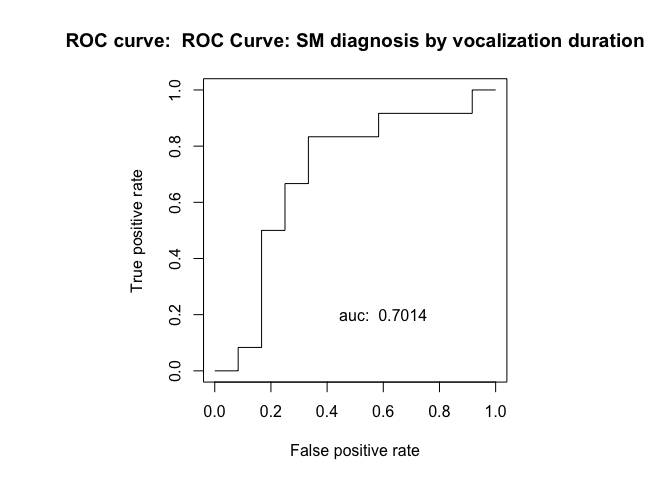
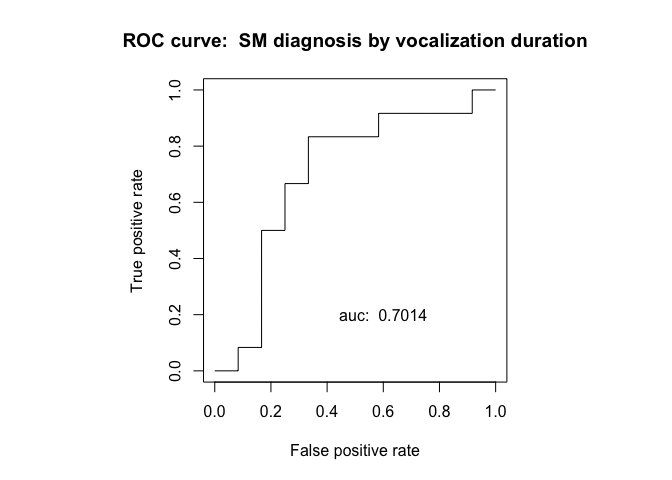
receiver operating characteristic curves

Changed region(s): [[0.0938, 0.0625, 0.9688, 0.125]]

diff --git a/CPP/ROC_curves.md b/CPP/ROC_curves.md
@@ -84,12 +84,12 @@ predicting SM dx by vocalization counts
 
 predicting SM dx by vocalization duration
 
-      SM_DX_ROC_plot(data, "SM_dx~Child_Voc_Duration", "ROC Curve: SM diagnosis by vocalization duration")
+      SM_DX_ROC_plot(data, "SM_dx~Child_Voc_Duration", "SM diagnosis by vocalization duration")
 
 ![](ROC_curves_files/figure-markdown_strict/predicting%20SM%20dx%20by%20vocalization%20duration-1.png)
 
 predicting SM dx by conversational turns
 
-      SM_DX_ROC_plot(data, "SM_dx~Turn_Count", "ROC Curve: SM diagnosis by conversational turn count")
+      SM_DX_ROC_plot(data, "SM_dx~Turn_Count", "SM diagnosis by conversational turn count")
 
 ![](ROC_curves_files/figure-markdown_strict/predicting%20SM%20dx%20by%20conversational%20turns-1.png)
